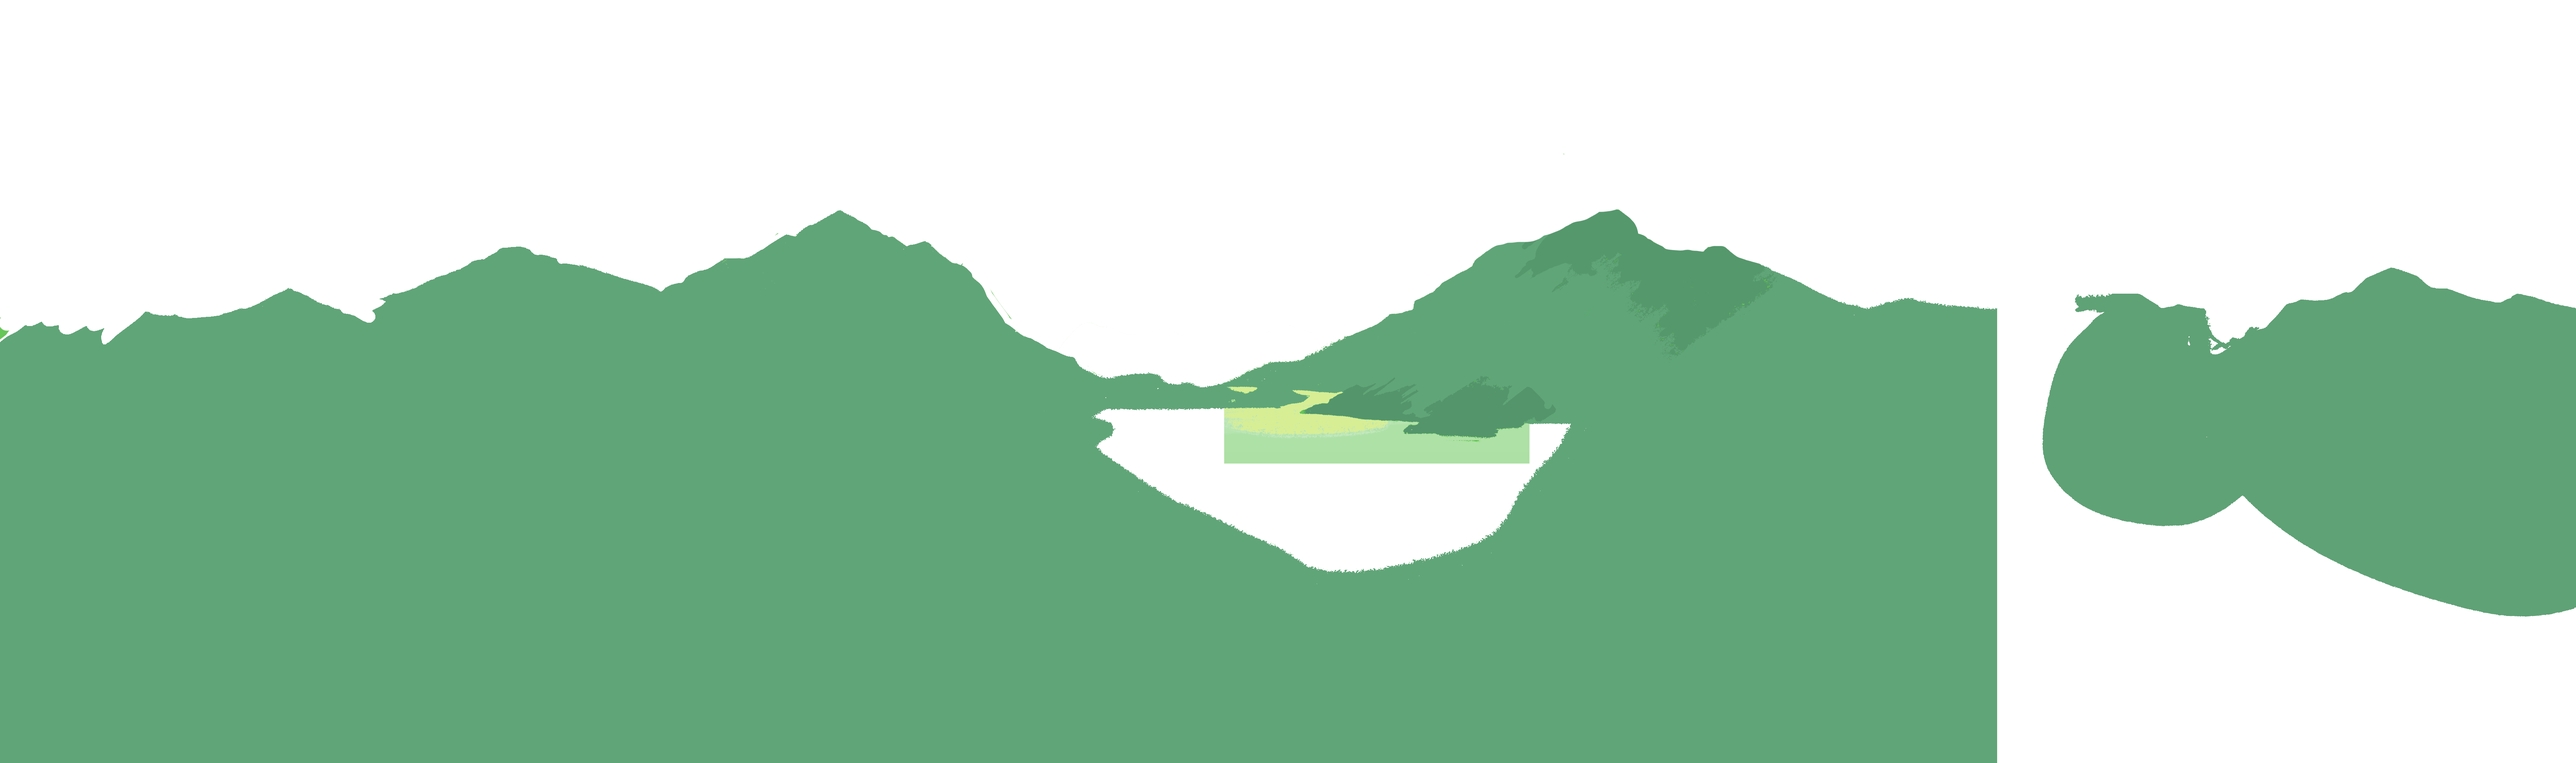
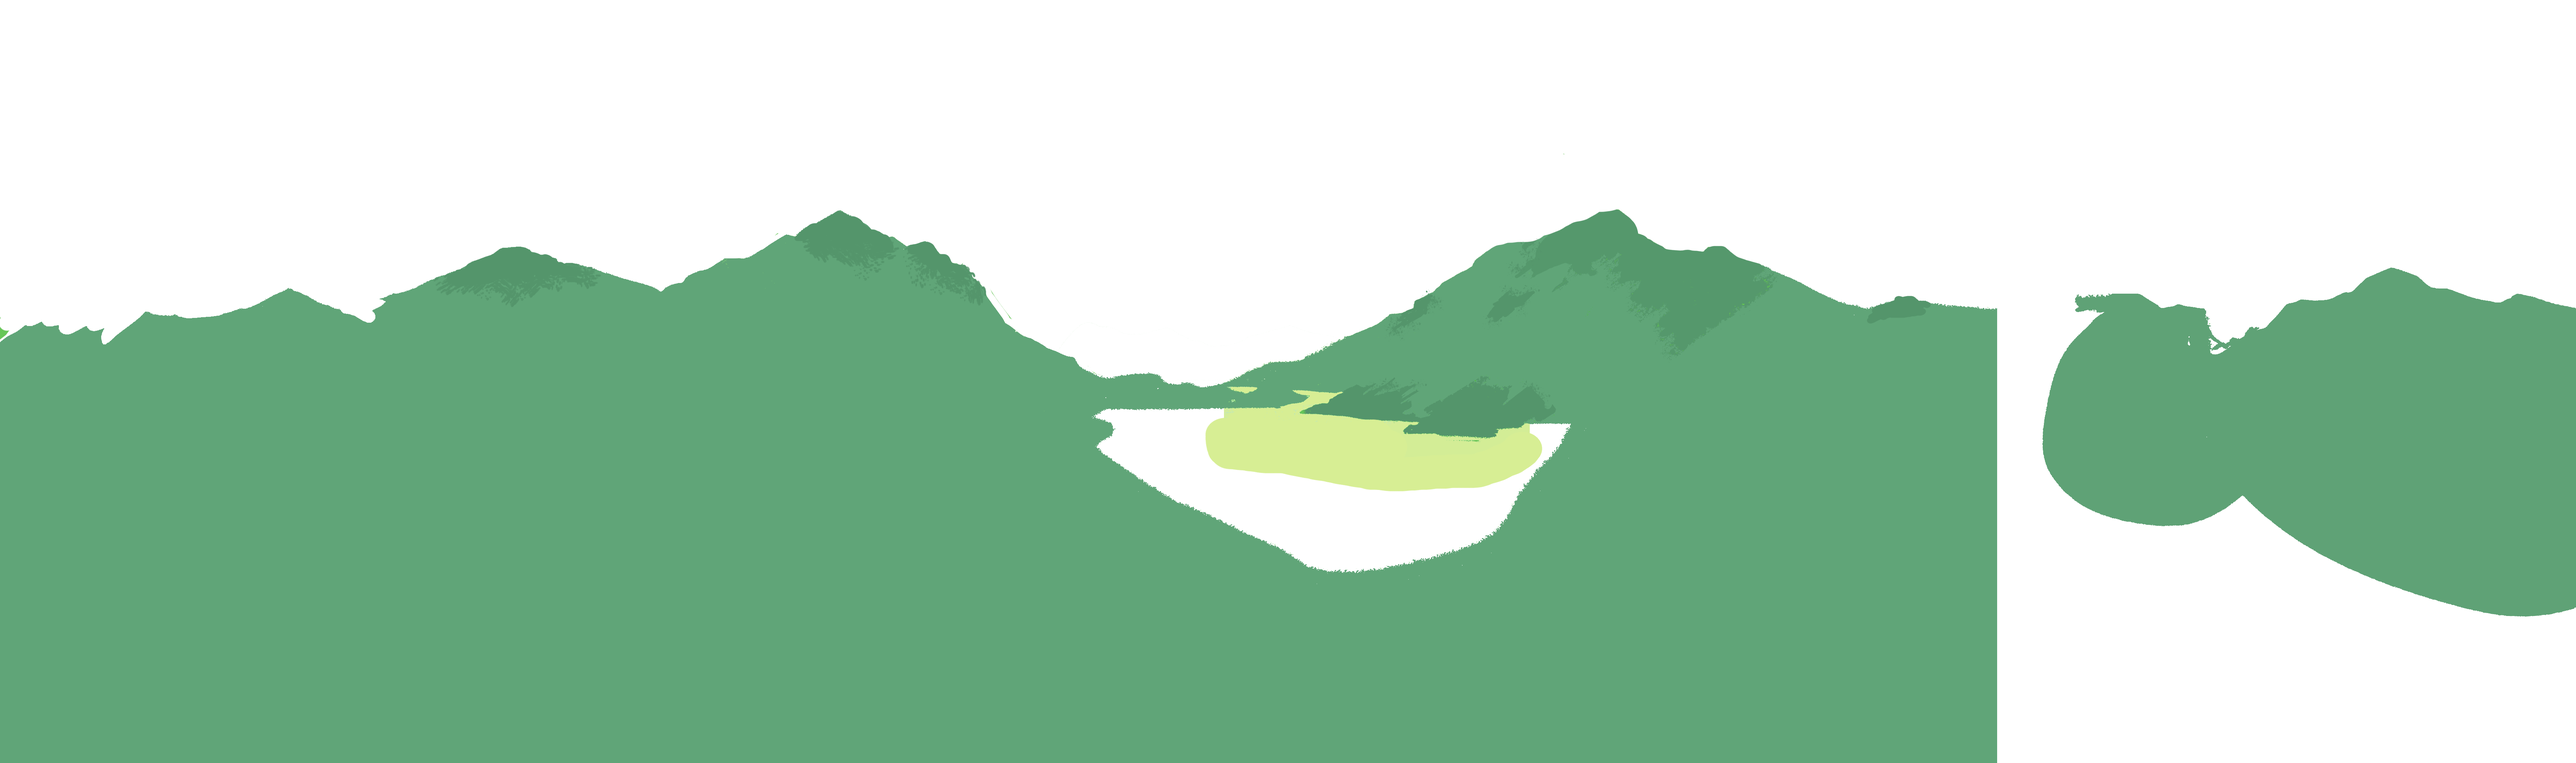
Updated the home page to the parallax version. Discarded old homepage

Changed region(s): [[0.4671, 0.5549, 0.6229, 0.6474]]

diff --git a/index.html b/index.html
@@ -1,65 +1,82 @@
+<!DOCTYPE html5>
+<html lang="en" dir="ltr">
+  <head>
+    <meta charset="utf-8">
+    <link href="style.css" rel="stylesheet" type="text/css"/>
+    <script type="text/javascript" src="parallax.js"></script>
+    <!-- Global site tag (gtag.js) - Google Analytics -->
+    <script async src="https://www.googletagmanager.com/gtag/js?id=G-LBTYW33FZ7"></script>
+    <script>
+    window.dataLayer = window.dataLayer || [];
+    function gtag(){dataLayer.push(arguments);}
+    gtag('js', new Date());
 
-<!doctype html>
-<html>
+    gtag('config', 'G-LBTYW33FZ7');
+    </script>
+    <title>Severi Friman</title>
 
-<head>
+    <meta name="viewport" content="width=device-width, initial-scale=0.4", user-scalable="no">
+    <meta charset="UTF-8">
+  </head>
 
-  <!-- Global site tag (gtag.js) - Google Analytics -->
-<script async src="https://www.googletagmanager.com/gtag/js?id=G-LBTYW33FZ7"></script>
-<script>
-  window.dataLayer = window.dataLayer || [];
-  function gtag(){dataLayer.push(arguments);}
-  gtag('js', new Date());
-
-  gtag('config', 'G-LBTYW33FZ7');
-</script>
+  <header>
 
 
-<title> Severi Friman </title>
-<link href="main.css" rel="stylesheet" type="text/css"/>
-<meta name="viewport" content="width=device-width", user-scalable="no">
-<meta charset="UTF-8">
-</head>
+  <div class="topnav">
+  <a class="active" href="index.html">Home</a>
+  <a href="contacts.html">Contacts</a>
+  <a href="Projects.html">Projects</a>
+  </div>
 
-<body>
 
-<header>
 
-  <nav>
-    <ul>
-      <li class="active">Home</li>
-      <li><a href="contacts.html"> Contacts </a></li>
-      <li><a href="Projects.html"> Projects </a></li>
-    </ul>
-  </nav>
 
 </header>
 
+  <body>
+    <div class="keyart" id="parallax">
+      <!-- Multilayer parallax section on top of the site-->
+      <div class="keyart_layer parallax" id="keyart-0" data-speed="2"></div>		<!-- 00.0 -->
+      <div class="keyart_layer parallax" id="keyart-1" data-speed="5"></div>	<!-- 12.5 -->
+      <div class="keyart_layer parallax" id="keyart-2" data-speed="11"></div>		<!-- 25.0 -->
+      <div class="keyart_layer parallax" id="keyart-3" data-speed="16"></div>	<!-- 37.5 -->
+      <div class="keyart_layer parallax" id="keyart-4" data-speed="26"></div>		<!-- 50.0 -->
+      <div class="keyart_layer parallax" id="keyart-5" data-speed="36"></div>	<!-- 62.5 -->
+      <div class="keyart_layer parallax" id="keyart-6" data-speed="49"></div>		<!-- 75.0 -->
+      <div class="keyart_layer" id="keyart-scrim"></div>
+      <div class="keyart_layer parallax" id="keyart-7" data-speed="69"></div>		<!-- 87.5 -->
+      <div class="keyart_layer" id="keyart-8" data-speed="100"></div>		<!-- 100. -->
+      <div class="parallax__cover" data-speed="100">
 
-<h2>Home</h2>
+        <!-- The content will be placed here-->
+        <br>
+        <br>
+        <br>
+        <br>
+        <br>
+        <img class="naamakuva" src="Images/ThatsMe.JPG" alt="My face" width="500" height="500">
+        <h1>~ BSc. Biomedical engineer ~</h1>
 
-<div class="transbox">
-    <p>Hi you! This is my website, which also acts as my portfolio.<br>
-    All my projects can be found from here. As matter of<br>
-    fact, this website is one of them. The whole website is<br>
-    coded from scratch with HTML, CSS and Javascript. Enjoy!<br> </p>
-</div>
-<br>
-<img class="naamakuva" src="Images/kuva2.JPG" alt="My face" width="250" height="250">
-<br>
 
-<div class="transbox">
-    <p>
-      <strong>A bit about myself.</strong> <br>
-      I am a 5th year biomedical engineering student from Tampere, Finland. <br>
-      Health is important to me and I would like to make something, that makes <br>
-      a differnece in future healthcare. My passion is to use signal processing <br>
-      approaches for vital signs analysis and diagnostics. <br>
-    </p>
-</div>
-</div>
-</body>
+        <div class="textfield">
+          <div class="intro">
+            Well met! Welcome to my website, which also acts as my portfolio. All my projects can be found from here. As matter of fact, this website is one of them. The whole website is coded from scratch with HTML, CSS and Javascript. Enjoy!
+          </div>
+
+
+          </div>
+
 <footer class="footer">
-Site by Severi Friman
+
+
+  <div class="footnav">
+  <a href="https://github.com/frimans" target="_blank"><img class="ekg"  src="Images/Github_logo.png" alt="Github logo" width="100" height="100"></img></a>
+  <a href="https://fi.linkedin.com/in/severi-friman-075516155" target="_blank"><img class="ekg"  src="Images/linkedin_logo.png" alt="Linkedin logo" width="100" height="100"></img></a>
+  </div>
 </footer>
+
+      </div>
+    </div>
+  </body>
+
 </html>
